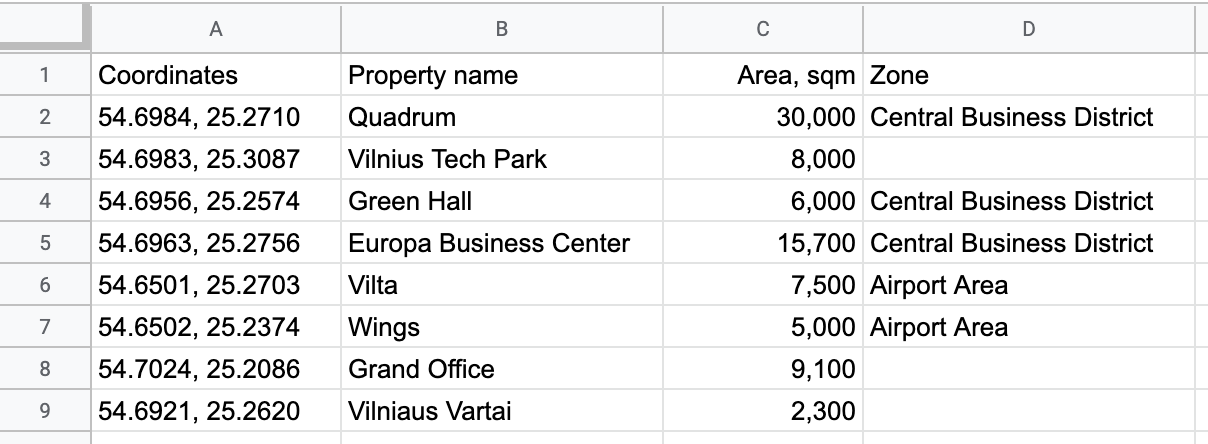
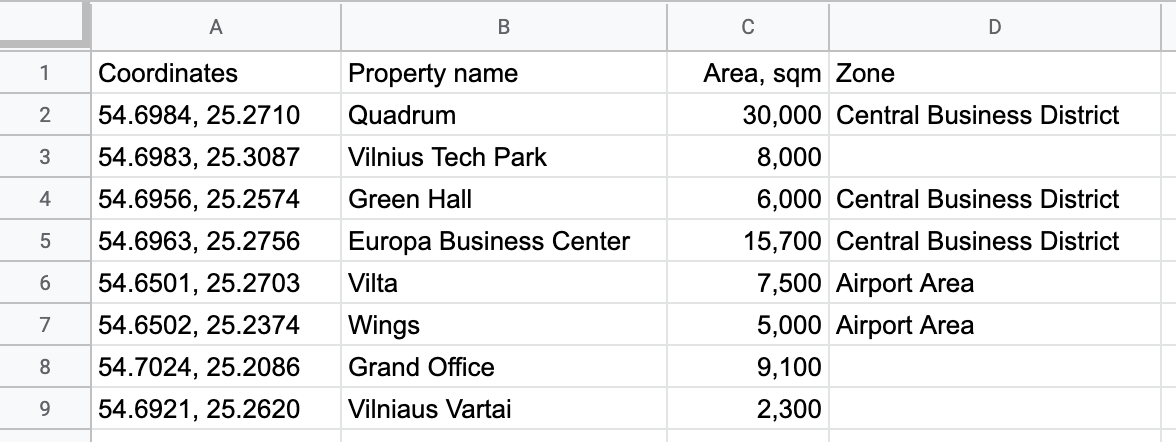
Update spreadsheet screenshot

diff --git a/README.md b/README.md
@@ -23,7 +23,7 @@ The simplest possible spreadsheet that could be understood by Zonal Maps would l
 
 To do: explain regular attributes.
 
-<img src="./public/readme/spreadsheet-screenshot-374628.png" alt="Spreadsheet screenshot" width="604" />
+<img src="./public/readme/spreadsheet-screenshot-374628.png" alt="Spreadsheet screenshot" width="588" />
 
 To do: describe that order numbers are not needed.
 
